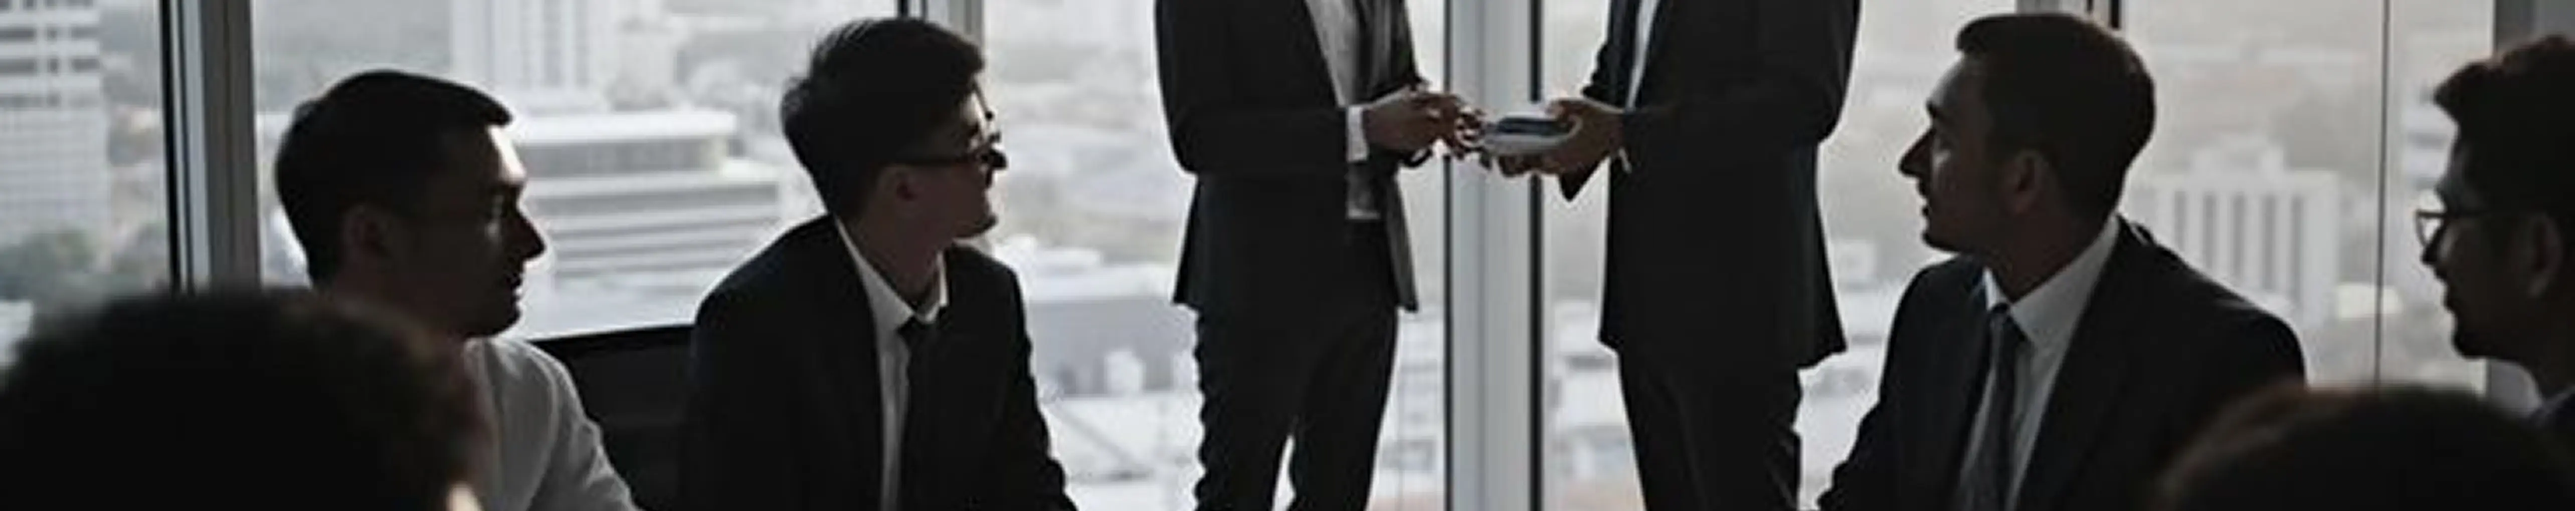
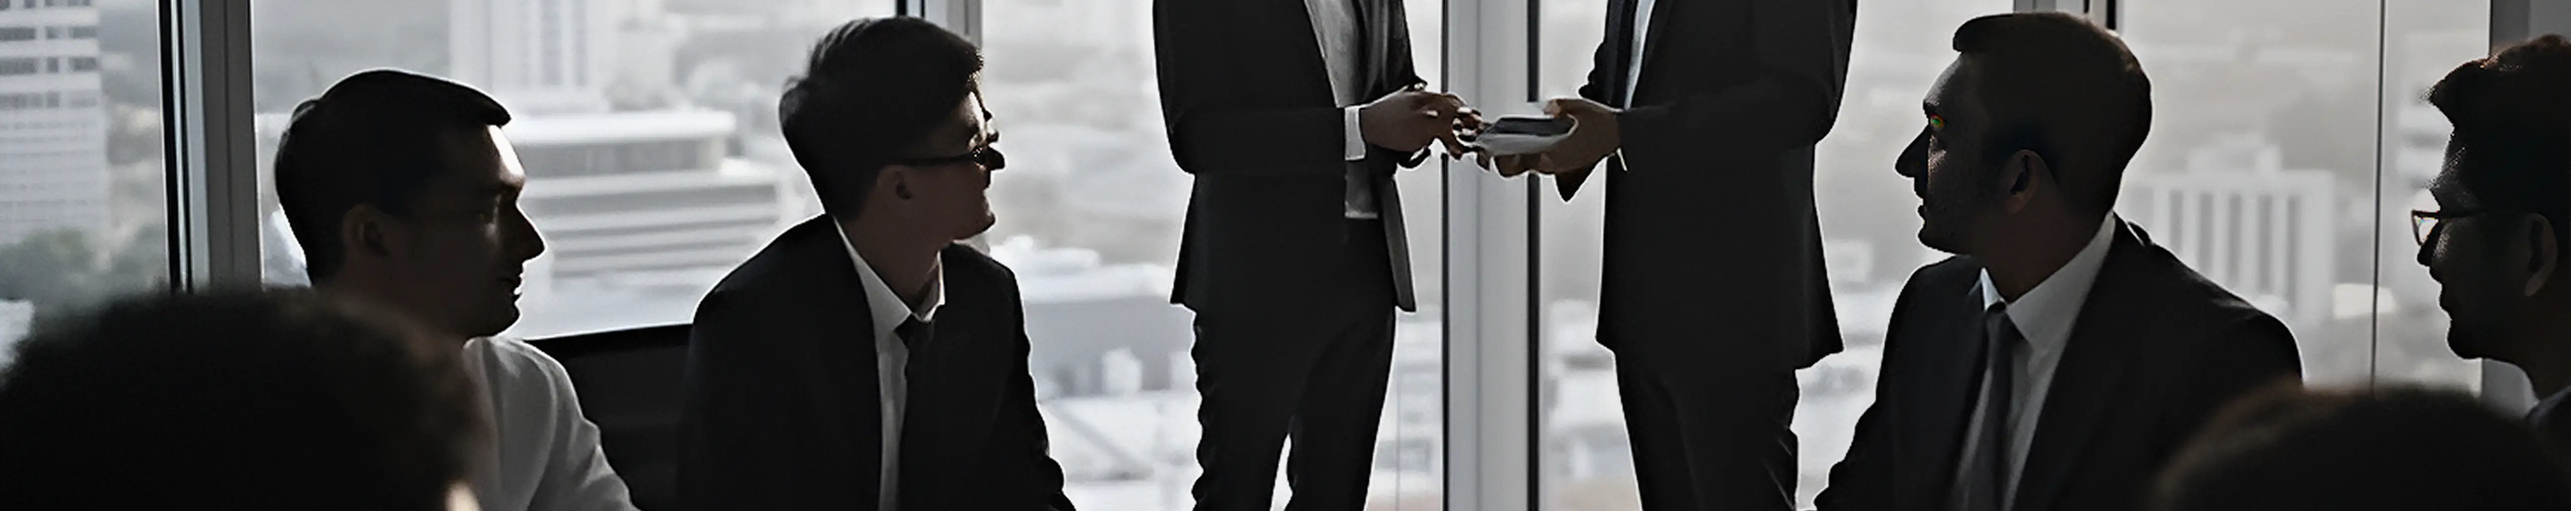
fix styling

diff --git a/src/app/news/[slug]/page.tsx b/src/app/news/[slug]/page.tsx
@@ -1,7 +1,7 @@
 import Image from 'next/image';
 import Link from 'next/link';
 import { notFound } from 'next/navigation';
-import { getNewsBySlug, getAllNews } from "@/lib/news"; 
+import { getNewsBySlug, getAllNews } from "@/lib/news";
 
 export async function generateStaticParams() {
     const allNews = await getAllNews();
@@ -32,13 +32,13 @@ export default async function NewsDetail({ params }: NewsDetailProps) {
     }
 
     const relatedNews = allNews.filter(item => item.slug !== slug).slice(0, 3);
-    
+
     const API_BASE_URL = process.env.NEXT_PUBLIC_API_BASE_URL;
 
- 
+
     return (
         <div className="min-h-screen bg-gray-50">
-  
+
             <div className="relative h-[80vw] md:h-[52vw]">
                 <Image
                     src={`${API_BASE_URL}/${newsItem.image}`}
@@ -48,26 +48,29 @@ export default async function NewsDetail({ params }: NewsDetailProps) {
                     priority
                 />
                 <div className="absolute inset-0 bg-gradient-to-t from-black/60 to-transparent" />
-                <div className="absolute bottom-0 left-0 right-0 p-6 md:px-[8vw] md:py-[5vw] md:pr-[15vw] text-white flex flex-col gap-y-3 md:gap-y-[1vw]">
-                    <p className="bg-[#A0001B] px-3 py-1 rounded-lg w-fit font_britanica_bold text-xl md:text-xl">
-                        {newsItem.category}
-                    </p>
-                    <h1 className="font_britanica_black text-[clamp(2.5vw,2.5vw,4rem)] leading-tight">
-                        {newsItem.news_title}
-                    </h1>
-                    <p className="text-gray-300 font_britanica_regular text-[clamp(0.875rem,3vw,1.25rem)]">
-                        {new Date(newsItem.created_at).toLocaleDateString('id-ID', {
-                            year: 'numeric', month: 'long', day: 'numeric'
-                        })}
-                    </p>
+                <div className='absolute bottom-0 left-0 right-0 p-6 md:px-[8vw] md:py-[5vw] md:pr-[15vw] text-white flex flex-row gap-x-4 md:gap-x-6'>
+           <div className='h-[17vw] md:h-[14vw] w-2 bg-white rounded-tr-[2vw] rounded-br-[2vw]'/>         
+                    <div className="flex flex-col gap-y-[1vw]">
+                        <p className="bg-[#A0001B] px-3 py-[0.2vw] rounded-lg w-fit font_britanica_bold  text-[clamp(1.5vw,2.5vw,2.5vw)] md:text-[clamp(2vw,2vw,7vw)]">
+                            {newsItem.category}
+                        </p>
+                        <h1 className="font_britanica_black  text-[clamp(3vw,3.4vw,3rem)] md:text-[clamp(2.5vw,2.5vw,4rem)] leading-tight">
+                            {newsItem.news_title}
+                        </h1>
+                        <p className="text-gray-300 font_britanica_regular text-[clamp(1.5vw,2.5vw,2.5vw)] md:text-[clamp(2vw,2vw,5vw)]">
+                            {new Date(newsItem.created_at).toLocaleDateString('id-ID', {
+                                year: 'numeric', month: 'long', day: 'numeric'
+                            })}
+                        </p>
+                    </div>
                 </div>
             </div>
 
-      
-              <div className="px-[5vw] mb-[2vw]">
+
+            <div className="px-[5vw] mb-[2vw]">
                 <div className="grid grid-cols-1 sm:grid-cols-3 gap-x-[3vw] mt-12">
                     <div className="sm:col-span-2">
-                    
+
                         <p className="font_britanica_regular text-gray-800 leading-relaxed 
                                    text-[clamp(1.1rem,2.5vw,1.25rem)] 
                                    whitespace-pre-wrap break-words text-justify">
@@ -75,7 +78,7 @@ export default async function NewsDetail({ params }: NewsDetailProps) {
                         </p>
                     </div>
 
-   
+
                     <div className="lg:col-span-1 mt-12 lg:mt-0">
                         <div className="">
                             <div className="flex items-center gap-2 mb-6">

diff --git a/src/components/about/Reason.tsx b/src/components/about/Reason.tsx
@@ -12,21 +12,21 @@ const Reason = () => {
                     <Image src={shield} alt="Shield Icon" className="w-[8vw] sm:w-[3vw]  " />
                     </div>
                     <h2 className="font_britanica_black text-[clamp(4vw,4vw,3rem)] sm:text-[clamp(1.5vw,1.5vw,1.6rem)] text-[#4F4F4F] sm:text-black ">Experience-Driven Prevention</h2>
-                    <p className="font_britanica_regular text-[clamp(3.5vw,3.7vw,4rem)] sm:text-[clamp(1.2vw,1.2vw,3.2rem)] text-[#4F4F4F] sm:text-black  text-center sm:text-justify">Our core strength in litigation gives us a unique perspective on avoiding legal pitfalls. We know where problems arise and how to build strong, preventative frameworks for your business and personal affairs.</p>
+                    <p className="font_britanica_regular text-[clamp(3.5vw,3.7vw,4rem)] sm:text-[clamp(1.2vw,1.2vw,3.2rem)] text-[#4F4F4F] sm:text-black  text-center text-justify">Our core strength in litigation gives us a unique perspective on avoiding legal pitfalls. We know where problems arise and how to build strong, preventative frameworks for your business and personal affairs.</p>
                 </div>
                 <div className="flex flex-col items-center gap-y-[2vw] sm:gap-y-[0.8vw] ">
                     <div className="flex items-center justify-center bg-[linear-gradient(180deg,_#A0001B_0%,_#3A000A_100%)] p-[3vw] sm:p-[1.2vw] rounded-full">
                     <Image src={dart} alt="Shield Icon" className="w-[8vw] sm:w-[3vw]  " />
                     </div>
                      <h2 className="font_britanica_black text-[clamp(4vw,4vw,3rem)] sm:text-[clamp(1.5vw,1.5vw,1.6rem)] text-[#4F4F4F] sm:text-black ">Result-Focused Advocacy</h2>
-                    <p className="font_britanica_regular text-[clamp(3.5vw,3.7vw,4rem)] sm:text-[clamp(1.2vw,1.2vw,3.2rem)] text-[#4F4F4F] sm:text-black  text-center sm:text-justify">We are not just advisors; we are relentless advocates. Our strategic approach is always geared towards achieving the most favorable and practical outcomes for our clients.</p>
+                    <p className="font_britanica_regular text-[clamp(3.5vw,3.7vw,4rem)] sm:text-[clamp(1.2vw,1.2vw,3.2rem)] text-[#4F4F4F] sm:text-black  text-center text-justify">We are not just advisors; we are relentless advocates. Our strategic approach is always geared towards achieving the most favorable and practical outcomes for our clients.</p>
                 </div>
                 <div className="flex flex-col items-center gap-y-[2vw] sm:gap-y-[0.8vw] ">
                     <div className="flex items-center justify-center bg-[linear-gradient(180deg,_#A0001B_0%,_#3A000A_100%)] p-[3vw] sm:p-[1.2vw] rounded-full">
                     <Image src={atom} alt="Shield Icon" className="w-[8vw] sm:w-[3vw]  " />
                     </div>
                      <h2 className="font_britanica_black text-[clamp(4vw,4vw,3rem)] sm:text-[clamp(1.5vw,1.5vw,1.6rem)] text-[#4F4F4F] sm:text-black ">Agile & Forward-Thinking</h2>
-                    <p className="font_britanica_regular text-[clamp(3.5vw,3.7vw,4rem)] sm:text-[clamp(1.2vw,1.2vw,3.2rem)] text-[#4F4F4F] sm:text-black  text-center sm:text-justify">Our team of young, experienced, and creative lawyers ensures that we provide dynamic, innovative, and highly applicable solutions tailored to the complexities of modern law and business.</p>
+                    <p className="font_britanica_regular text-[clamp(3.5vw,3.7vw,4rem)] sm:text-[clamp(1.2vw,1.2vw,3.2rem)] text-[#4F4F4F] sm:text-black  text-center text-justify">Our team of young, experienced, and creative lawyers ensures that we provide dynamic, innovative, and highly applicable solutions tailored to the complexities of modern law and business.</p>
                 </div>
             </div>
         </div>

diff --git a/src/components/common/Footer.tsx b/src/components/common/Footer.tsx
@@ -42,7 +42,7 @@ const Footer: React.FC = () => {
                                 </Link>
                             </div>
                         </div>
-                        <p className="text-gray-700 text-[clamp(3.5vw,3.5vw,1rem)] leading-relaxed">
+                        <p className="text-gray-700 text-[clamp(3vw,3.5vw,1rem)] leading-relaxed">
                             Securing your business with litigation excellence in court and precision in corporate strategy.
                         </p>
                     </div>
@@ -50,12 +50,12 @@ const Footer: React.FC = () => {
                     <div className="flex flex-col">
                         <h3 className="text-[#4F000D] font_britanica_black text-[clamp(1.2rem,4.5vw,1.5rem)] mb-4">Our firm</h3>
                         <ul className="space-y-3">
-                            <li><Link href="/" className="text-[#4F000D] hover:text-[#7A0015] transition-colors text-[clamp(3.5vw,3.5vw,1.2rem)]">Home</Link></li>
-                            <li><Link href="/about" className="text-[#4F000D] hover:text-[#7A0015] transition-colors text-[clamp(3.5vw,3.5vw,1.2rem)]">About Us</Link></li>
-                            <li><Link href="/member" className="text-[#4F000D] hover:text-[#7A0015] transition-colors text-[clamp(3.5vw,3.5vw,1.2rem)]">Lawyers</Link></li>
-                            <li><Link href="/achievements" className="text-[#4F000D] hover:text-[#7A0015] transition-colors text-[clamp(3.5vw,3.5vw,1.2rem)]">Achievements</Link></li>
-                            <li><Link href="/career" className="text-[#4F000D] hover:text-[#7A0015] transition-colors text-[clamp(3.5vw,3.5vw,1.2rem)]">Careers</Link></li>
-                            <li><Link href="/pro-bono" className="text-[#4F000D] hover:text-[#7A0015] transition-colors text-[clamp(3.5,3.5vw,1.2rem)]">Pro Bono</Link></li>
+                            <li><Link href="/" className="text-[#4F000D] hover:text-[#7A0015] transition-colors text-[clamp(0.9rem,3.5vw,1.2rem)]">Home</Link></li>
+                            <li><Link href="/about" className="text-[#4F000D] hover:text-[#7A0015] transition-colors text-[clamp(0.9rem,3.5vw,1.2rem)]">About Us</Link></li>
+                            <li><Link href="/member" className="text-[#4F000D] hover:text-[#7A0015] transition-colors text-[clamp(0.9rem,3.5vw,1.2rem)]">Lawyers</Link></li>
+                            <li><Link href="/achievements" className="text-[#4F000D] hover:text-[#7A0015] transition-colors text-[clamp(0.9rem,3.5vw,1.2rem)]">Achievements</Link></li>
+                            <li><Link href="/career" className="text-[#4F000D] hover:text-[#7A0015] transition-colors text-[clamp(0.9rem,3.5vw,1.2rem)]">Careers</Link></li>
+                            <li><Link href="/pro-bono" className="text-[#4F000D] hover:text-[#7A0015] transition-colors text-[clamp(0.9rem,3.5vw,1.2rem)]">Pro Bono</Link></li>
                         </ul>
                     </div>
 
@@ -85,7 +85,7 @@ const Footer: React.FC = () => {
                             </a>
                             <div className="flex items-start space-x-3">
                                 <Image src={locationIcon} alt="Location" className="w-5 h-5 flex-shrink-0 mt-1" />
-                                <p className="text-[#4F000D] leading-relaxed text-nowrap text-[clamp(3.5vw,3.5vw,1.2rem)] max-w-xs">
+                                <p className="text-[#4F000D] leading-relaxed text-nowrap text-[clamp(0.9rem,3.5vw,1.2rem)] max-w-xs">
                                     Plaza Sentral 15th Floor <br />
                                     Jln. Jendral Sudirman Kav 47-48
                                     <br />

diff --git a/src/components/about/Visi-misi.tsx b/src/components/about/Visi-misi.tsx
@@ -28,7 +28,7 @@ const VisiMisi = () => {
                     <h1 className="font_britanica_black text-white text-[clamp(6vw,6vw,6rem)] sm:text-[clamp(3.2vw,3.2vw,3.2rem)] py-[2vw] sm:py-[1.6vw]">
                         VISION
                     </h1>
-                    <p className={`text-center sm:text-right  w-full sm:w-[70%] font_britanica_black text-white text-[clamp(3.5vw,3.5vw,3.5rem)] sm:text-[clamp(1.2vw,1.5vw,3.2rem)] sm:transition-all sm:duration-500 sm:ease-in-out opacity-100 translate-x-0 ${isHovered === 'visi' ? 'sm:opacity-100 sm:translate-x-0' : 'sm:opacity-0 sm:translate-x-1/2'}`}>
+                    <p className={`text-justify sm:text-right  w-full sm:w-[70%] font_britanica_black text-white text-[clamp(3.5vw,3.5vw,3.5rem)] sm:text-[clamp(1.2vw,1.5vw,3.2rem)] sm:transition-all sm:duration-500 sm:ease-in-out opacity-100 translate-x-0 ${isHovered === 'visi' ? 'sm:opacity-100 sm:translate-x-0' : 'sm:opacity-0 sm:translate-x-1/2'}`}>
                         To be the most trusted and effective legal partner, empowering our clients to navigate legal complexities with confidence and achieve their strategic objectives.
                     </p>
                 </div>
@@ -52,7 +52,7 @@ const VisiMisi = () => {
 
                 <div className="absolute inset-0 z-20 flex flex-col-reverse sm:flex-row items-center justify-center sm:justify-between w-full px-[8vw] sm:px-[8vw]">
 
-                    <p className={`text-center  sm:text-left w-full sm:w-[70%] font_britanica_black text-white text-[clamp(3.5vw,3.5vw,3.5rem)] sm:text-[clamp(1.2vw,1.5vw,3.2rem)] sm:transition-all sm:duration-500 sm:ease-in-out opacity-100 translate-x-0 ${isHovered === 'misi' ? 'sm:opacity-100 sm:translate-x-0' : 'sm:opacity-0 sm:-translate-x-1/2'}`}>
+                    <p className={`text-justify  sm:text-left w-full sm:w-[70%] font_britanica_black text-white text-[clamp(3.5vw,3.5vw,3.5rem)] sm:text-[clamp(1.2vw,1.5vw,3.2rem)] sm:transition-all sm:duration-500 sm:ease-in-out opacity-100 translate-x-0 ${isHovered === 'misi' ? 'sm:opacity-100 sm:translate-x-0' : 'sm:opacity-0 sm:-translate-x-1/2'}`}>
                         We achieve our vision by providing proactive, practical and client-centric legal services, leveraging our extensive litigation background to offer strategic counsel and robust advocacy in an ever-evolving legal landscape.
                     </p>
                     <h1 className="font_britanica_black text-white text-[clamp(6vw,6vw,6rem)] sm:text-[clamp(3.2vw,3.2vw,3.2rem)] py-[5vw]  sm:py-[1.6vw]">

diff --git a/src/components/pro-bono/main.tsx b/src/components/pro-bono/main.tsx
@@ -10,7 +10,7 @@ const Main = () => {
         <h1 className="sm:font_lato_regular text-[clamp(6vw,5.7vw,8vw)] sm:text-[clamp(3vw,3vw,5vw)] sm:text-nowrap font_britanica_black">
           Pro Bono
         </h1>
-        <p className="font_britanica_bold sm:text-[clamp(1.2vw,1.5vw,5vw)] text-[clamp(2vw,4vw,5vw)] sm:text-justify text-center ">
+        <p className="font_britanica_bold sm:text-[clamp(1.2vw,1.5vw,5vw)] text-[clamp(2vw,4vw,5vw)] text-justify text-center ">
           At HAS Attorneys at Law, we believe that law is more than a
           profession, it is a calling to serve. We view our pro bono practice
           not as an obligation, but as the core of our responsibility to the
@@ -20,7 +20,7 @@ const Main = () => {
         </p>
       </div>
       <div className="flex justify-center items-center text-center bg-[linear-gradient(90deg,_#A0001B_0%,_#3A000A_100%)] p-[8vw] rounded-t-[2.4vw]">
-        <h3 className="font_britanica_bold sm:text-[clamp(1.2vw,1.5vw,5vw)] text-[clamp(2vw,4vw,5vw)] text-white sm:text-justify text-center">
+        <h3 className="font_britanica_bold sm:text-[clamp(1.2vw,1.5vw,5vw)] text-[clamp(2vw,4vw,5vw)] text-white text-justify text-center">
           We dedicate our time, resources, and litigation expertise to accompany
           individuals and organizations who fight for justice but have limited
           access. Our team actively seeks pro bono cases where we can create a
@@ -39,7 +39,7 @@ const Main = () => {
           alt="ornament-mobile"
           className="w-full sm:hidden block mt-[-5vw]"
         />
-        <div className="flex flex-col  gap-y-[4vw] sm:px-0 px-[5vw]  w-full">
+        <div className="flex flex-col  gap-y-[4vw] sm:px-0 px-[5vw] text-justify w-full">
           <h1 className="font_britanica_bold flex justify-center bg-clip-text text-transparent bg-[linear-gradient(0deg,_#000000_-29.55%,_#F20028_128.41%)] text-[clamp(5vw,8vw,10vw)] sm:text-[clamp(3vw,3vw,5vw)]">
             Our Pro Bono Stories
           </h1>

diff --git a/src/app/member/[id]/MemberDetailClient.tsx b/src/app/member/[id]/MemberDetailClient.tsx
@@ -90,10 +90,9 @@ export default function MemberDetailClient() {
             {/* ======================================================= */}
             <div className="hidden sm:block bg-gray-100 min-h-screen w-full">
                 {/* Hero Section Desktop */}
-                <div className="relative w-full h-[clamp(25rem,200vh,100vh)] overflow-hidden">
+                <div className="relative w-full h-screen overflow-hidden">
                     <div className="absolute inset-0">
                         <Image src={bg} alt="bg" className="block w-full h-full object-cover" />
-                        <div className="absolute inset-0 "></div>
                     </div>
                     <div className="absolute inset-0 flex items-center justify-center px-[clamp(1rem,4vw,5rem)] z-10">
                         <div className="flex flex-row items-center gap-x-[clamp(1rem,3vw,4rem)] w-full max-w-[80vw]">
@@ -113,7 +112,7 @@ export default function MemberDetailClient() {
                     </div>
                 </div>
                 {/* Content Section Desktop */}
-                <div className="py-[clamp(3rem,8vw,8rem)] px-[5vw]">
+                <div className="py-[clamp(5vw,5vw,8rem)] px-[5vw]">
                     <div className="mx-auto flex flex-row gap-x-[clamp(3rem,8vw,10rem)] items-start">
                         <div className="flex flex-col text-justify w-full lg:w-[clamp(100%,100%,100%)]"><p className="text-[#131313] font_britanica_regular text-[clamp(1rem,1.4vw,1.6rem)] leading-relaxed whitespace-pre-wrap">{member.biography}</p></div>
                         <div className="flex flex-col gap-y-[clamp(2rem,2.5vw,4rem)] w-full lg:w-[clamp(35%,40%,45%)]">

diff --git a/src/components/landingpage/Service.tsx b/src/components/landingpage/Service.tsx
@@ -23,7 +23,7 @@ const Service = () => {
                 <h1 className="font_britanica_black text-white text-4xl md:text-[clamp(0.35rem,3.5vw,3.5rem)] tracking-normal md:tracking-[0.07rem]">
                     Our Services
                 </h1>
-                <p className="font_britanica_regular text-white text-base md:text-[clamp(1.1vw,1.3vw,3rem)] leading-relaxed max-w-5xl">
+                <p className="font_britanica_regular text-white text-base md:text-[clamp(1.1vw,1.3vw,3rem)] leading-relaxed max-w-5xl text-justify">
                     At HAS Attorneys at Law, our identity is forged through powerful and strategic litigation. We exist to win your most critical disputes, supported by robust corporate services that strengthen your legal standing. To deliver this commitment, we provide a comprehensive suite of services designed to protect and advance your interests in every legal arena. Our focuses include:
                 </p>
             

diff --git a/src/app/contact/page.tsx b/src/app/contact/page.tsx
@@ -126,7 +126,7 @@ const mapSrc = "https://www.google.com/maps/embed?pb=!1m18!1m12!1m3!1d3966.35312
                         <div className="flex items-start gap-4">
                             <div>
                                 <h4 className="font_britanica_bold font-bold text-[clamp(0.95rem,2.2vw,1.125rem)] mb-1">Address</h4>
-                                <p className="text-white/90 font_britanica_regular break-words text-[clamp(0.9rem,2.2vw,1.1rem)] leading-relaxed">Plaza Sentral 15th Floor Jln. Jendral Sudirman Kav 47-48 Jakarta Selatan 12930, Indonesia</p>
+                                <p className="text-white/90 font_britanica_regular break-words text-[clamp(0.9rem,2.2vw,1.1rem)] leading-relaxed">Plaza Sentral 15th Floor <br />Jln. Jendral Sudirman Kav 47-48 <br />Jakarta Selatan 12930, Indonesia</p>
                             </div>
                         </div>
                         <div className="flex items-start gap-4">

diff --git a/src/components/about/Stories.tsx b/src/components/about/Stories.tsx
@@ -4,7 +4,7 @@ import stories1 from "@/assets/about/image/stories1.webp";
 import stories2 from "@/assets/about/image/stories2.webp";
 const Stories = () => {
   return (
-    <div className="flex flex-col sm:flex-row items-center sm:justify-center mt-[5vw]  gap-y-[4vw] sm:gap-y-0 sm:gap-x-[1.6vw] px-[5vw] relative">
+    <div className="flex flex-col sm:flex-row items-center sm:justify-center sm:mt-[5vw]  gap-y-[4vw] sm:gap-y-0 sm:gap-x-[1.6vw] px-[5vw] relative">
   <div className="w-full sm:w-[42vw] h-auto sm:h-[28vw] relative pb-[4vw] sm:pb-0">
   <Image src={ornament} alt="Ornament Background" className="hidden sm:block w-[50vw] sm:w-[28vw] absolute top-0 right-0 z-0" />
   <Image src={ornament} alt="Ornament Background" className="hidden sm:block w-[50vw] sm:w-[28vw] absolute bottom-0 left-0 z-0 rotate-90 scale-y-[-1] -translate-x-1/3" />

diff --git a/src/app/achievements/page.tsx b/src/app/achievements/page.tsx
@@ -129,7 +129,7 @@ export default function Achievements() {
           <h1 className="text-white text-[clamp(2rem,6vw,4rem)] mt-[clamp(1rem,3vw,2.5rem)] font_britanica_black tracking-wide">
             Achievements
           </h1>
-          <p className="text-gray-200 text-[clamp(0.9rem,2.2vw,1.25rem)] max-w-[clamp(20rem,80vw,60rem)] mt-4 font_britanica_regular px-4">
+          <p className="text-gray-200 text-[clamp(2.7vw,2.7vw,1.25rem)] sm:text-[clamp(2.2vw,2.2vw,3vw)] max-w-[clamp(80vw,80vw,60rem)] mt-4 font_britanica_regular px-[1vw]">
             Our commitment to excellence is consistently recognized by the
             industry. Below are some of the awards and achievements that mark
             our dedication to providing premier legal services.
